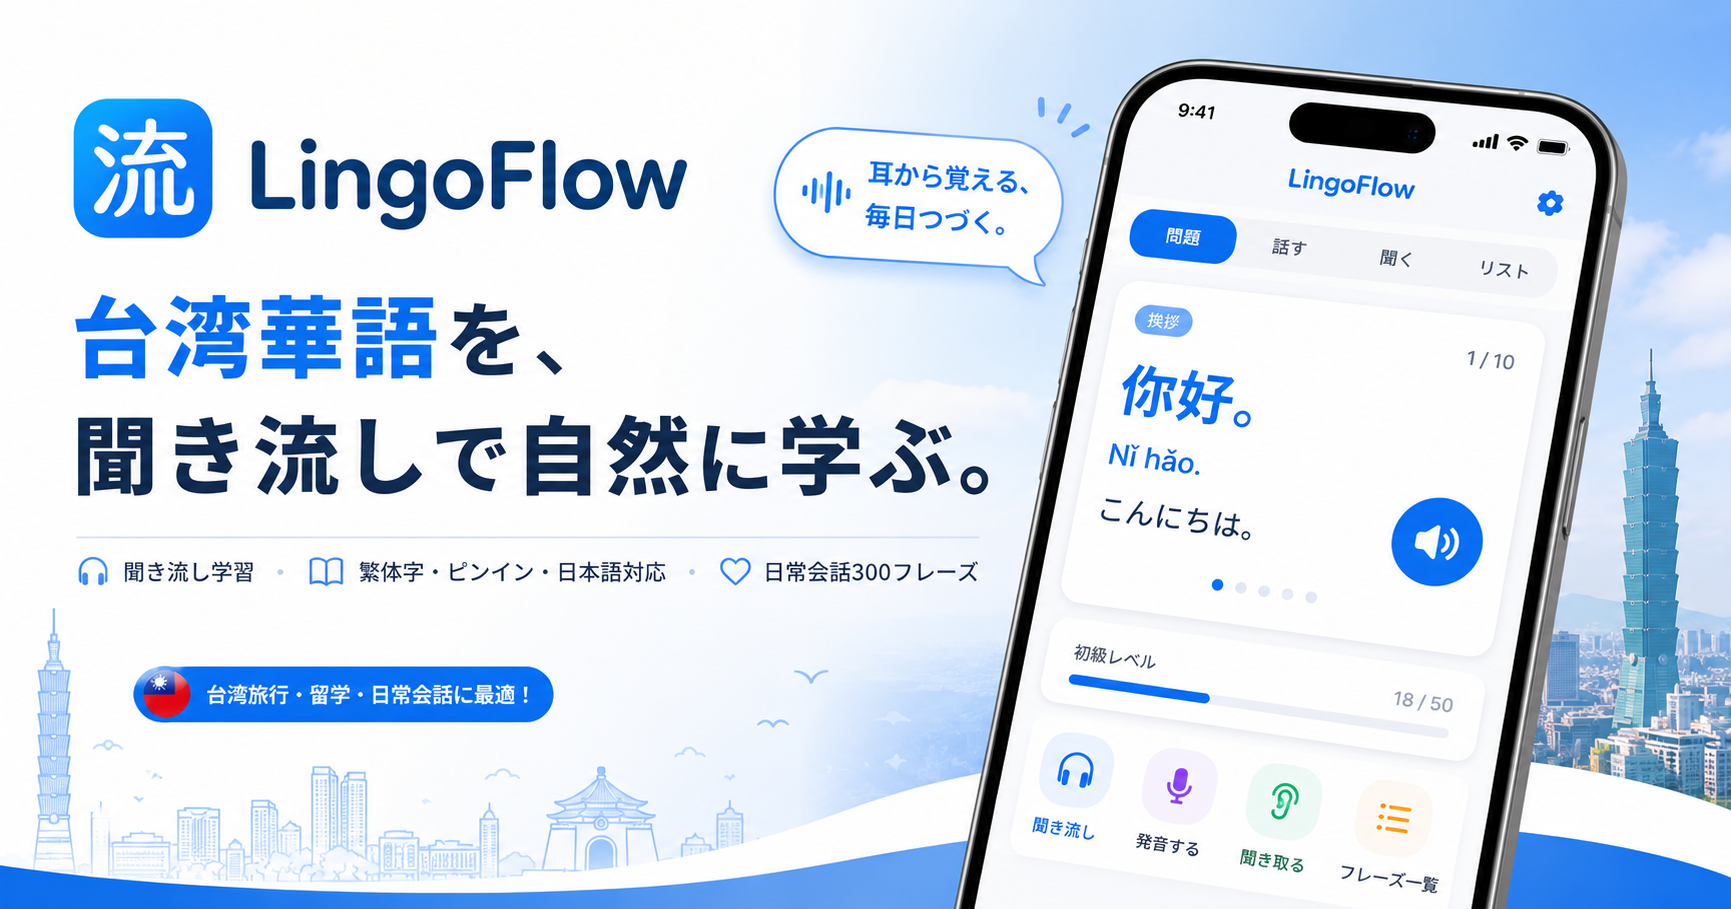
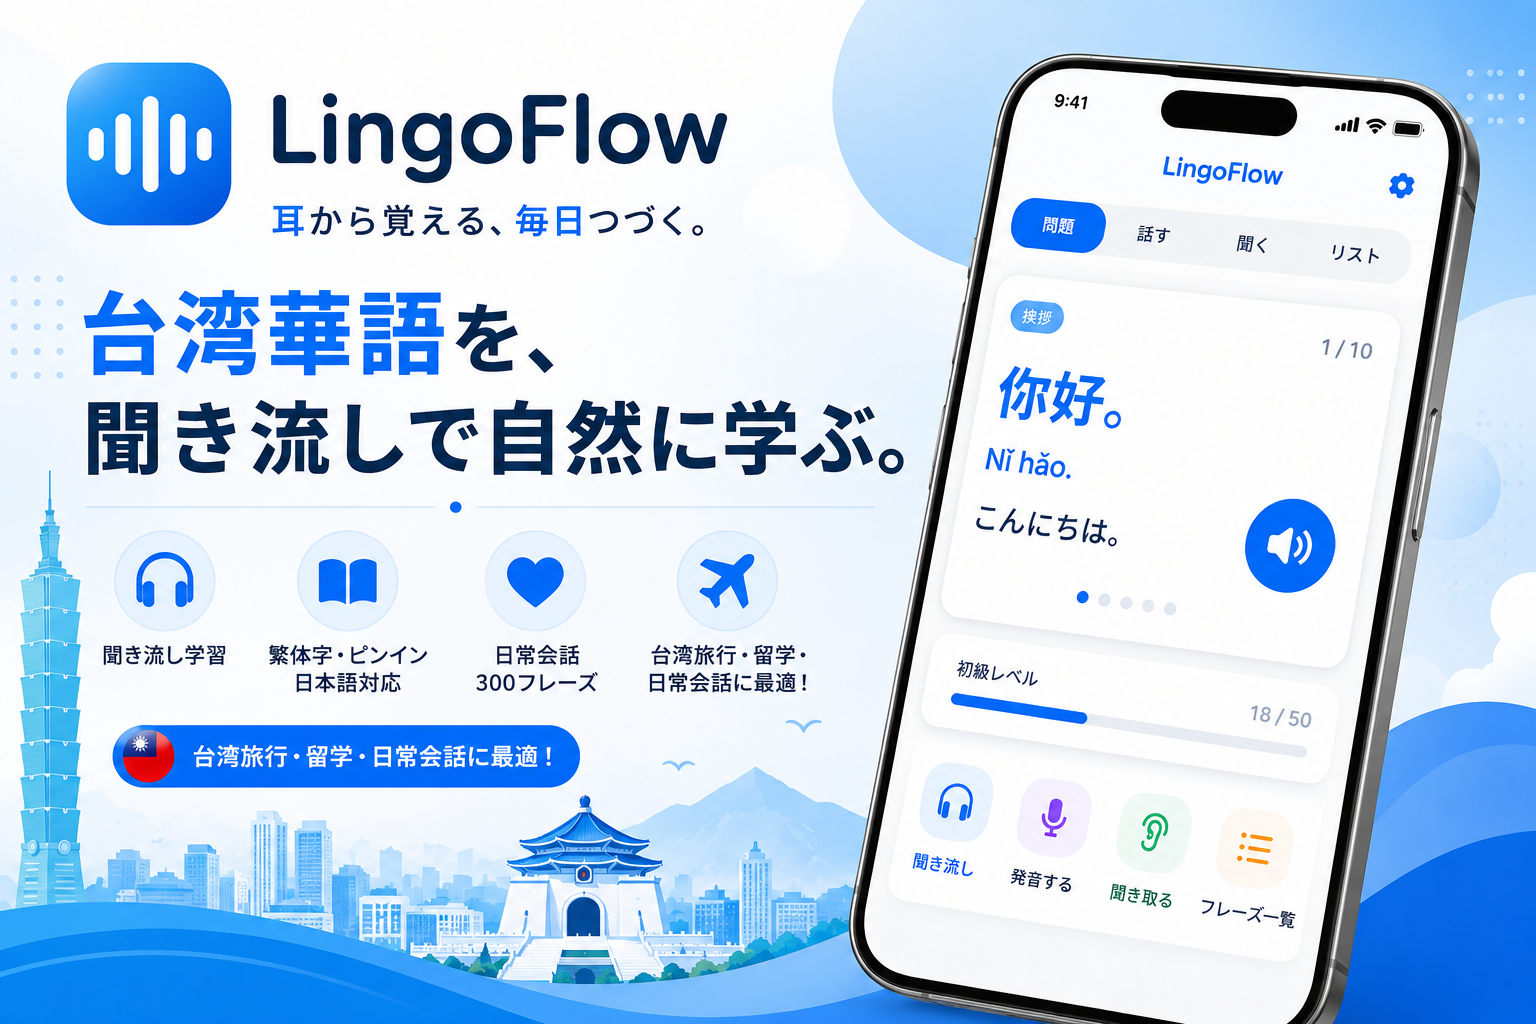
Add files via upload

diff --git a/index.html b/index.html
@@ -3,12 +3,12 @@
 <head>
 <meta charset="UTF-8">
 <meta name="viewport" content="width=device-width, initial-scale=1, viewport-fit=cover">
-<link rel="icon" type="image/png" href="/favicon.png?v=3">
+<link rel="icon" type="image/png" href="/favicon.png?v=4">
 <title>LingoFlow | 台湾華語を聞き流しで学ぶ中国語学習アプリ</title>
 <meta name="description" content="LingoFlowは、台湾華語を聞き流し感覚で学べる無料の中国語学習アプリです。繁体字・ピンイン・日本語対応。">
 
-<!-- LingoFlow app version: 2026-05-22-ja-audio-auto-v1 -->
-<meta name="lingoflow-app-version" content="2026-05-22-ja-audio-auto-v1">
+<!-- LingoFlow app version: 2026-05-22-ui-refresh-no-ryu-icon-v1 -->
+<meta name="lingoflow-app-version" content="2026-05-22-ui-refresh-no-ryu-icon-v1">
 
 <meta property="og:title" content="LingoFlow">
 <meta property="og:description" content="台湾華語を、聞き流しで自然に学ぶ。">
@@ -317,15 +317,228 @@ button,select{
   }
 }
 
+
+
+/* ===== LingoFlow visual UI refresh / no Ryu icon v1 ===== */
+:root{
+  --lf-blue:#007aff;
+  --lf-blue-deep:#0754c9;
+  --lf-blue-soft:#eaf4ff;
+  --lf-ink:#0b1f3f;
+  --lf-muted:#60708a;
+  --lf-card:rgba(255,255,255,.82);
+  --lf-border:rgba(148,190,255,.34);
+}
+body{
+  background:
+    radial-gradient(circle at 86% 12%, rgba(0,122,255,.20), transparent 34%),
+    radial-gradient(circle at 8% 0%, rgba(255,255,255,.95), transparent 32%),
+    linear-gradient(135deg,#f8fbff 0%,#eaf4ff 46%,#d8ebff 100%) !important;
+  color:var(--lf-ink) !important;
+}
+body::before{
+  content:"";
+  position:fixed;
+  inset:auto 0 0 0;
+  height:28vh;
+  pointer-events:none;
+  background:
+    linear-gradient(0deg, rgba(255,255,255,.92), rgba(255,255,255,0)),
+    radial-gradient(ellipse at 22% 80%, rgba(0,122,255,.08), transparent 42%);
+  z-index:-1;
+}
+.app{
+  background:rgba(255,255,255,.58) !important;
+  border:1px solid rgba(255,255,255,.88) !important;
+  box-shadow:0 24px 70px rgba(15,49,98,.15) !important;
+}
+.controls{
+  background:rgba(255,255,255,.88) !important;
+  border:1px solid rgba(255,255,255,.92) !important;
+  box-shadow:0 12px 34px rgba(15,49,98,.12) !important;
+}
+.controls button,
+.controls select{
+  background:rgba(255,255,255,.78) !important;
+  color:var(--lf-ink) !important;
+  border:1px solid rgba(0,122,255,.10) !important;
+  box-shadow:inset 0 1px 0 rgba(255,255,255,.9), 0 4px 12px rgba(15,49,98,.07) !important;
+  font-weight:900 !important;
+}
+#viewBtn{
+  background:linear-gradient(135deg,#0a84ff,#006fe6) !important;
+  color:white !important;
+  border-color:rgba(0,122,255,.45) !important;
+  box-shadow:0 8px 20px rgba(0,122,255,.26) !important;
+}
+.box,
+.list{
+  background:var(--lf-card) !important;
+  border:1px solid rgba(255,255,255,.94) !important;
+  border-radius:28px !important;
+  box-shadow:0 18px 46px rgba(15,49,98,.12), inset 0 1px 0 rgba(255,255,255,.88) !important;
+}
+.question-nav{
+  padding:4px !important;
+  border-radius:999px !important;
+  background:rgba(241,247,255,.78) !important;
+  border:1px solid rgba(0,122,255,.08) !important;
+  box-shadow:inset 0 1px 0 rgba(255,255,255,.8) !important;
+}
+.question-nav button{
+  background:transparent !important;
+  border:0 !important;
+  color:#41516a !important;
+  box-shadow:none !important;
+}
+.question-nav button[data-qnav="replay"]{
+  background:rgba(0,122,255,.10) !important;
+  color:var(--lf-blue-deep) !important;
+}
+.question-meta{
+  display:flex;
+  align-items:center;
+  justify-content:space-between;
+  gap:12px;
+  margin:4px 0 18px;
+}
+.phrase-chip{
+  display:inline-flex;
+  align-items:center;
+  min-height:30px;
+  padding:5px 12px;
+  border-radius:999px;
+  color:white;
+  background:linear-gradient(135deg,#5eb2ff,#007aff);
+  font-weight:900;
+  font-size:15px;
+  box-shadow:0 8px 18px rgba(0,122,255,.22);
+}
+.phrase-count{
+  color:#475569;
+  font-size:15px;
+  font-weight:900;
+  letter-spacing:.04em;
+}
+.zh{
+  color:#0875f5 !important;
+  font-size:34px !important;
+  line-height:1.35 !important;
+  text-shadow:0 6px 22px rgba(0,122,255,.10);
+}
+.pinyin{
+  color:#1464c8 !important;
+  font-size:23px !important;
+  line-height:1.42 !important;
+}
+.jp{
+  color:#17233b !important;
+  font-size:23px !important;
+  line-height:1.48 !important;
+}
+.line{
+  margin:0 0 18px !important;
+}
+.status,
+.list-status{
+  background:rgba(234,244,255,.92) !important;
+  color:#0754c9 !important;
+  border:1px solid rgba(0,122,255,.10) !important;
+  box-shadow:inset 0 1px 0 rgba(255,255,255,.78) !important;
+}
+.list-item{
+  margin:0 0 10px;
+  padding:15px 14px !important;
+  border:1px solid rgba(0,122,255,.08) !important;
+  background:rgba(255,255,255,.66);
+  box-shadow:0 8px 22px rgba(15,49,98,.06);
+}
+.list-item.playing{
+  background:rgba(234,244,255,.90) !important;
+  outline:2px solid rgba(0,122,255,.20) !important;
+}
+.category-title{
+  color:#0754c9 !important;
+  margin-top:22px !important;
+}
+.level-title{
+  color:#6b7c96 !important;
+}
+#startOverlay{
+  background:
+    radial-gradient(circle at 88% 12%, rgba(0,122,255,.24), transparent 34%),
+    linear-gradient(135deg,#f8fbff,#e7f3ff 54%,#ffffff) !important;
+}
+.start-card{
+  background:rgba(255,255,255,.78) !important;
+  border:1px solid rgba(255,255,255,.96) !important;
+  box-shadow:0 28px 74px rgba(15,49,98,.18) !important;
+}
+.logo-mark{
+  position:relative;
+  overflow:hidden;
+  background:linear-gradient(135deg,#0a84ff,#006fe6) !important;
+  box-shadow:0 16px 36px rgba(0,122,255,.30) !important;
+}
+.logo-mark::before{
+  content:"";
+  position:absolute;
+  inset:-20% -45%;
+  background:linear-gradient(110deg, transparent 34%, rgba(255,255,255,.24) 48%, transparent 62%);
+  transform:rotate(-12deg);
+}
+.logo-wave{
+  position:relative;
+  display:flex;
+  align-items:center;
+  justify-content:center;
+  gap:5px;
+  width:44px;
+  height:40px;
+}
+.logo-wave i{
+  display:block;
+  width:6px;
+  border-radius:999px;
+  background:#fff;
+  box-shadow:0 0 12px rgba(255,255,255,.55);
+}
+.logo-wave i:nth-child(1){height:14px;opacity:.78}
+.logo-wave i:nth-child(2){height:26px;opacity:.92}
+.logo-wave i:nth-child(3){height:36px}
+.logo-wave i:nth-child(4){height:20px;opacity:.86}
+.logo-title{
+  color:var(--lf-ink) !important;
+  letter-spacing:.1px !important;
+}
+.logo-subtitle{
+  color:#37506f !important;
+}
+.start-button{
+  background:linear-gradient(135deg,#0a84ff,#006fe6) !important;
+  box-shadow:0 14px 28px rgba(0,122,255,.28) !important;
+}
+.char.done{
+  color:#007aff!important;
+  text-shadow:0 0 12px rgba(0,122,255,.30)!important;
+}
+@media(max-width:520px){
+  .zh{font-size:31px !important;}
+  .pinyin,.jp{font-size:21px !important;}
+  .box,.list{border-radius:24px !important;}
+  .phrase-chip{font-size:14px;min-height:28px;padding:4px 10px;}
+  .phrase-count{font-size:14px;}
+}
+
 </style>
 </head>
 <body>
 
 <div id="startOverlay">
   <div class="start-card">
-    <div class="logo-mark">流</div>
+    <div class="logo-mark" aria-label="LingoFlow icon"><span class="logo-wave" aria-hidden="true"><i></i><i></i><i></i><i></i></span></div>
     <h1 class="logo-title">LingoFlow</h1>
-    <p class="logo-subtitle">台湾華語を、聞き流しで自然に学ぶ。</p>
+    <p class="logo-subtitle">耳から覚える、毎日つづく。<br>台湾華語を自然に学ぶ。</p>
     <button id="startButton" class="start-button" type="button">タップして開始</button>
     <div class="start-note">音声は開始後だけ再生されます。<br>電車・会社・カフェでも安心して開けます。</div>
   </div>
@@ -366,7 +579,7 @@ const DATA = JSON.parse(document.getElementById("embeddedData").textContent);
 let analyticsReady = false;
 const ANALYTICS_STORAGE_KEY = "lingoflow_analytics_events_v1";
 const ANALYTICS_MAX_EVENTS = 300;
-const LINGOFLOW_APP_VERSION = "2026-05-22-ja-audio-auto-v1";
+const LINGOFLOW_APP_VERSION = "2026-05-22-ui-refresh-no-ryu-icon-v1";
 window.LINGOFLOW_APP_VERSION = LINGOFLOW_APP_VERSION;
 function createAnalyticsSessionId(){
   return String(Date.now()) + "-" + Math.random().toString(36).slice(2, 8);
@@ -978,6 +1191,15 @@ function renderQuestion(options = {}){
     </div>
   `;
 
+  const totalInFilter = Math.max(1, getList().length || history.length || 1);
+  const shownIndex = Math.max(1, Math.min(index + 1, totalInFilter));
+  const metaHtml = `
+    <div class="question-meta">
+      <span class="phrase-chip">${esc(categoryNames[p.category] || "台湾華語")}</span>
+      <span class="phrase-count">${shownIndex} / ${totalInFilter}</span>
+    </div>
+  `;
+
   const linesHtml = order.map((key,i) => {
     const isVisible = i < visible;
     const content = key === "zh" && isVisible && shouldSpeakZh
@@ -997,7 +1219,7 @@ function renderQuestion(options = {}){
     </div>
   `;
 
-  box.innerHTML = navHtml + linesHtml + statusHtml;
+  box.innerHTML = navHtml + metaHtml + linesHtml + statusHtml;
 
   if(shouldSpeakZh){
     speakHighlight(p.zh);
@@ -1030,7 +1252,14 @@ function renderChars(text){
   }).join("");
 }
 function renderAuto(p){
+  const totalInFilter = Math.max(1, getList().length || history.length || 1);
+  const shownIndex = Math.max(1, Math.min(index + 1, totalInFilter));
+
   box.innerHTML = `
+    <div class="question-meta auto-meta">
+      <span class="phrase-chip">${esc(categoryNames[p.category] || "聞き流し")}</span>
+      <span class="phrase-count">${shownIndex} / ${totalInFilter}</span>
+    </div>
     <div class="line"><div class="zh">${renderChars(p.zh)}</div></div>
     <div class="line"><div class="pinyin">${esc(p.pinyin)}</div></div>
     <div class="line"><div class="jp">${esc(p.jp)}</div></div>
@@ -1284,7 +1513,7 @@ async function playListById(id){
 }
 function renderList(){
   currentListItems = [];
-  let out = '<div class="list-status">一覧クリック: 音声に合わせて中国語が青色に進みます</div>';
+  let out = '<div class="list-status">一覧クリック：音声に合わせて中国語が青色に進みます</div>';
 
   Object.keys(categoryNames).filter(c => c !== "all").forEach(cat => {
     let html = `<div class="category-title">${categoryNames[cat]}</div>`;
